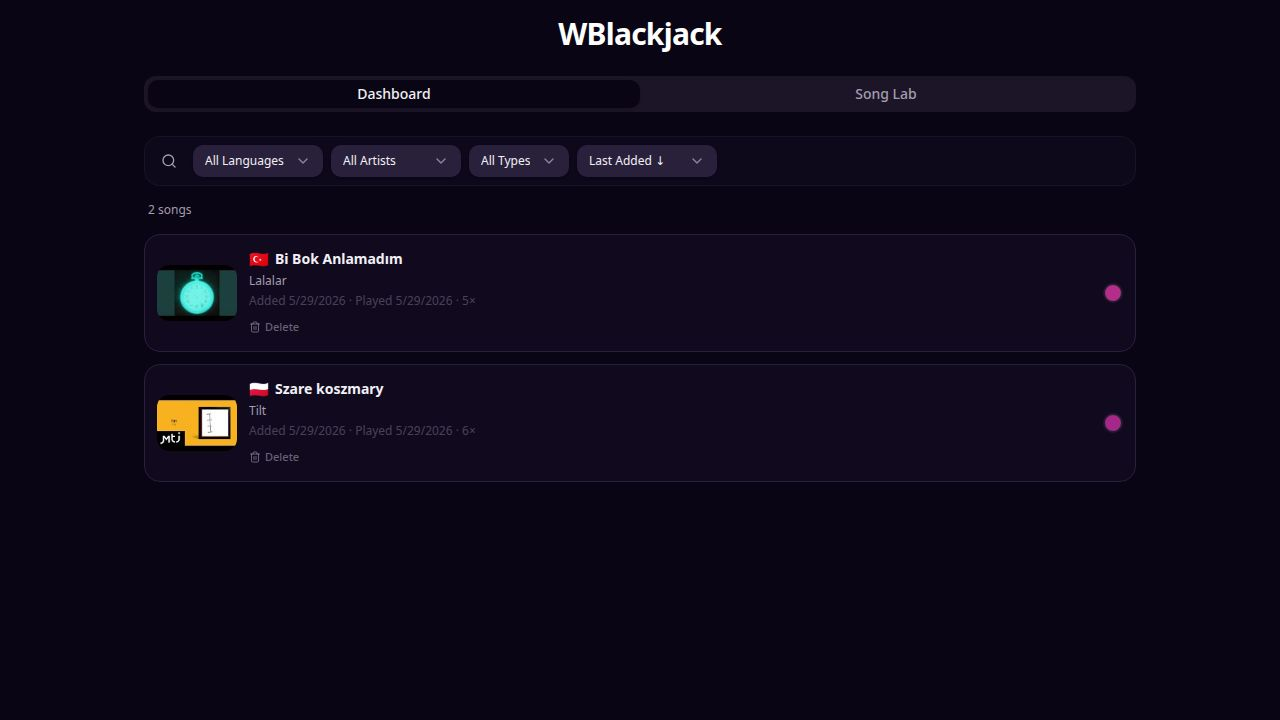
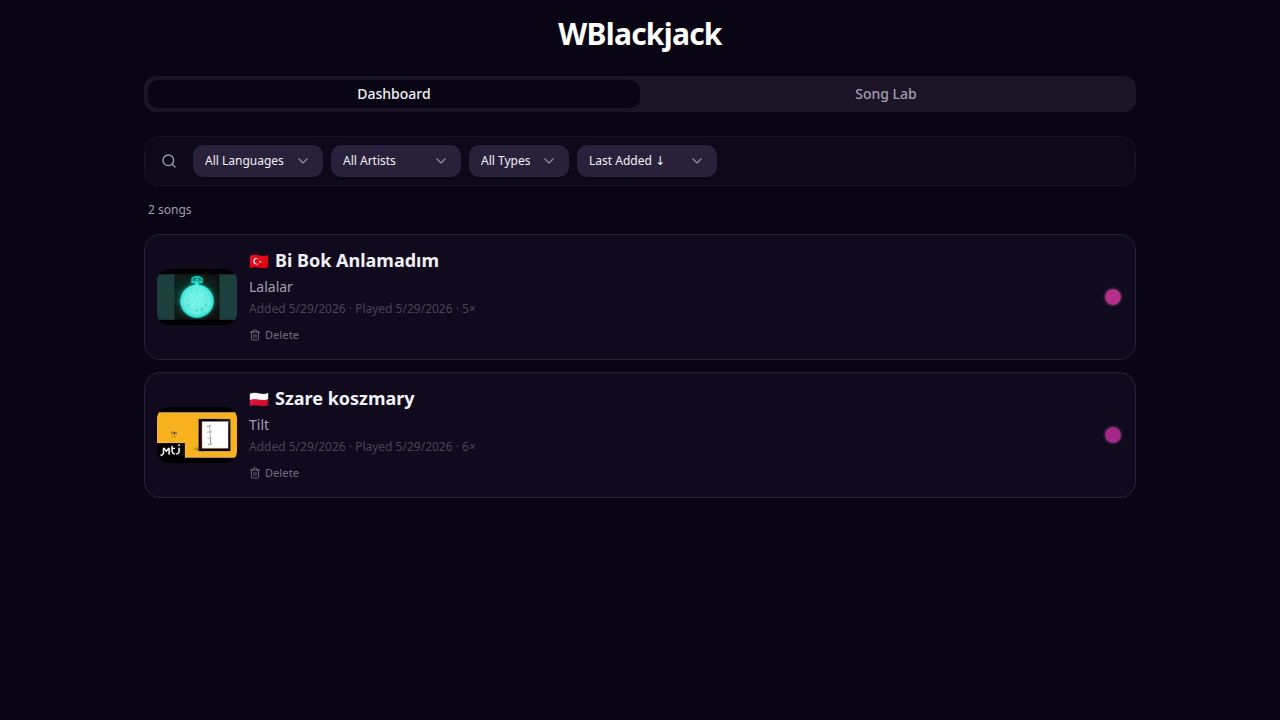
Ensure the karaoke dock stays visible at the bottom of the screen
Update CSS to set root element heights and change the karaoke game container to use full height, resolving an issue where the dock was obscured by system navigation bars on mobile.

Replit-Commit-Author: Agent
Replit-Commit-Session-Id: 29612f03-e2a0-4a3a-adb6-a0ecd4faee4e
Replit-Commit-Checkpoint-Type: full_checkpoint
Replit-Commit-Event-Id: 9e17c509-cb8a-4dd3-8791-beebe447f013
Replit-Commit-Screenshot-Url: https://storage.googleapis.com/screenshot-production-us-central1/d94b775f-4f97-43df-a41c-808bf10c3a24/29612f03-e2a0-4a3a-adb6-a0ecd4faee4e/eaC9ynF
Replit-Helium-Checkpoint-Created: true

diff --git a/artifacts/wblackjack/src/index.css b/artifacts/wblackjack/src/index.css
@@ -146,6 +146,9 @@
   * {
     @apply border-border;
   }
+  html, body, #root {
+    height: 100%;
+  }
   body {
     @apply font-sans antialiased bg-background text-foreground;
   }

diff --git a/artifacts/wblackjack/src/pages/karaoke-game.tsx b/artifacts/wblackjack/src/pages/karaoke-game.tsx
@@ -451,7 +451,7 @@ export default function KaraokeGame() {
   const totalGaps = gaps.length;
 
   return (
-    <div className="h-[100dvh] flex flex-col bg-background max-w-3xl mx-auto w-full overflow-hidden">
+    <div className="h-full flex flex-col bg-background max-w-3xl mx-auto w-full overflow-hidden">
       {/* ── Header ──────────────────────────────────────────────────────── */}
       <div className="flex justify-between items-center px-4 py-3 border-b border-border/50 shrink-0">
         <Link